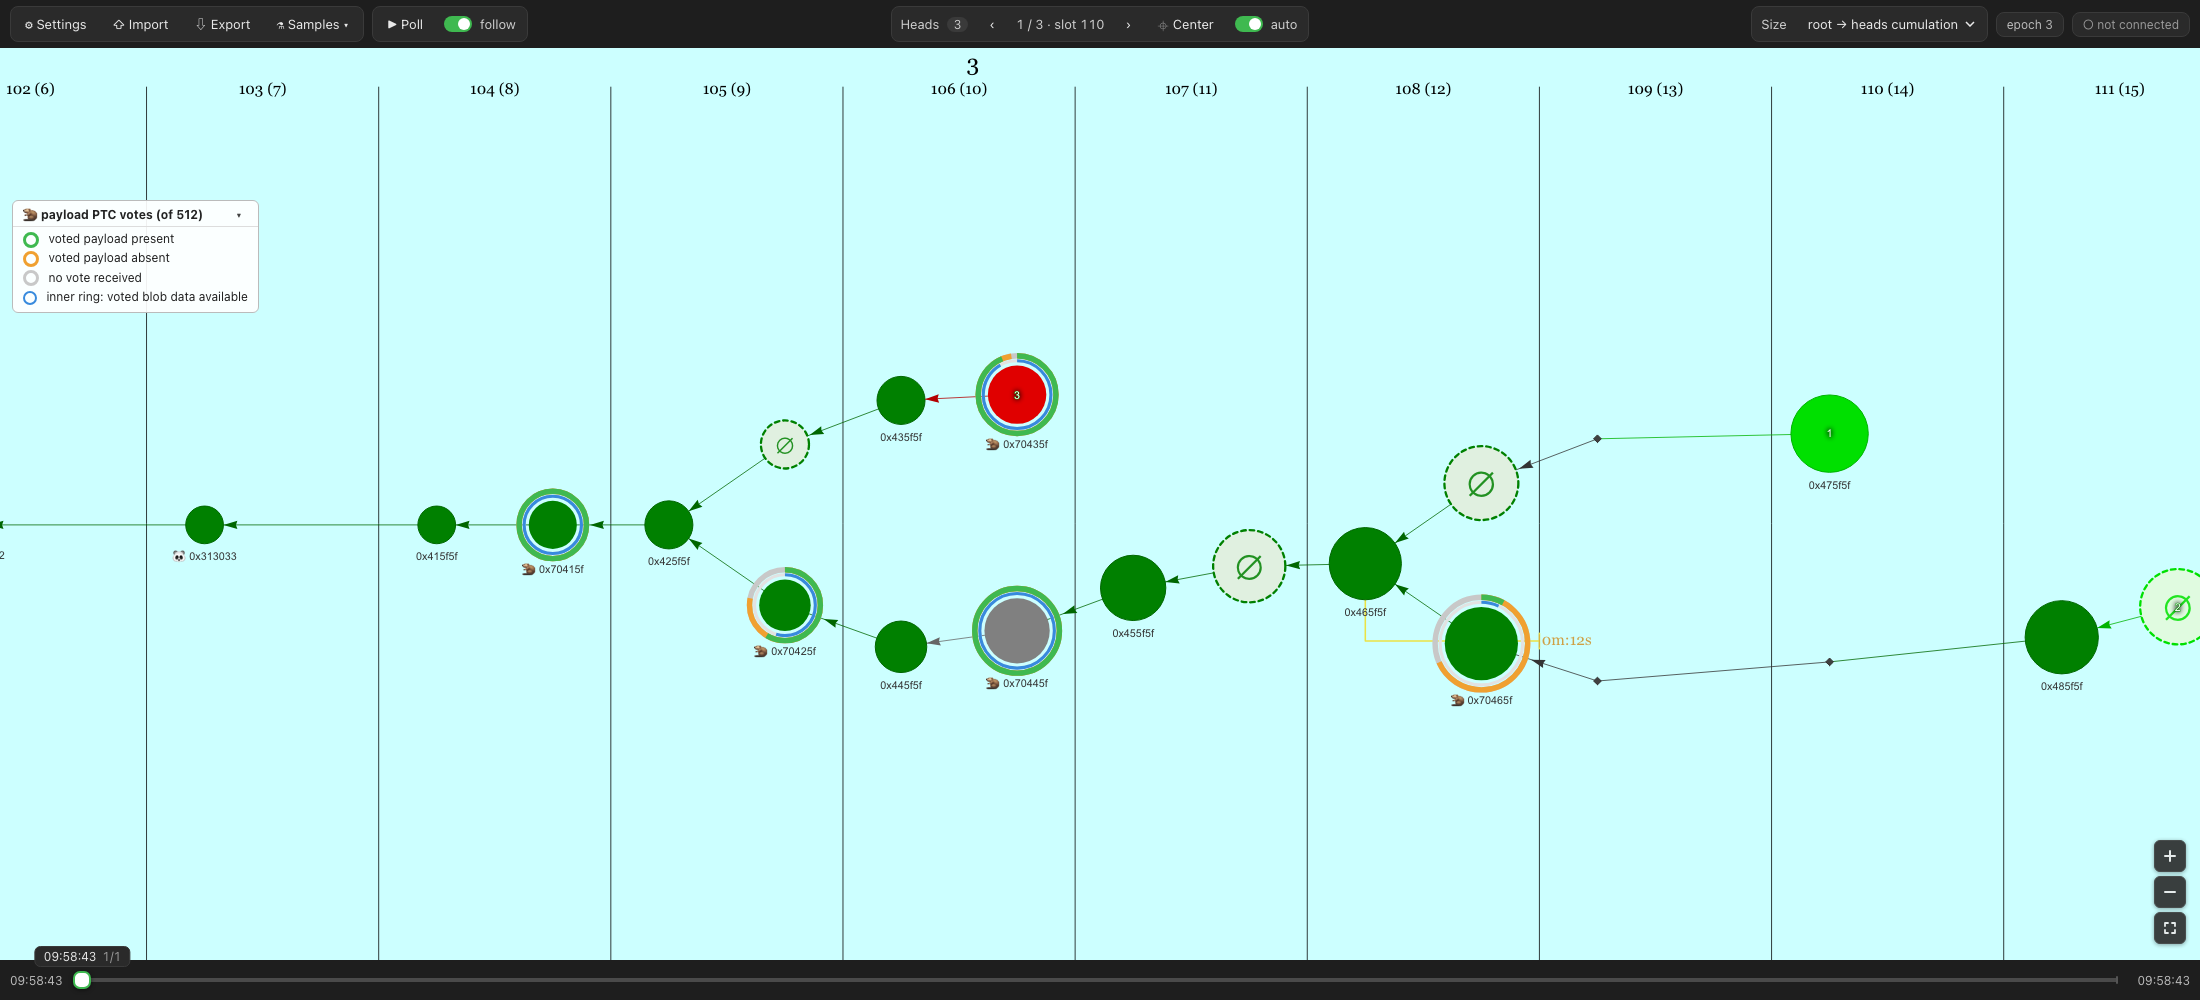
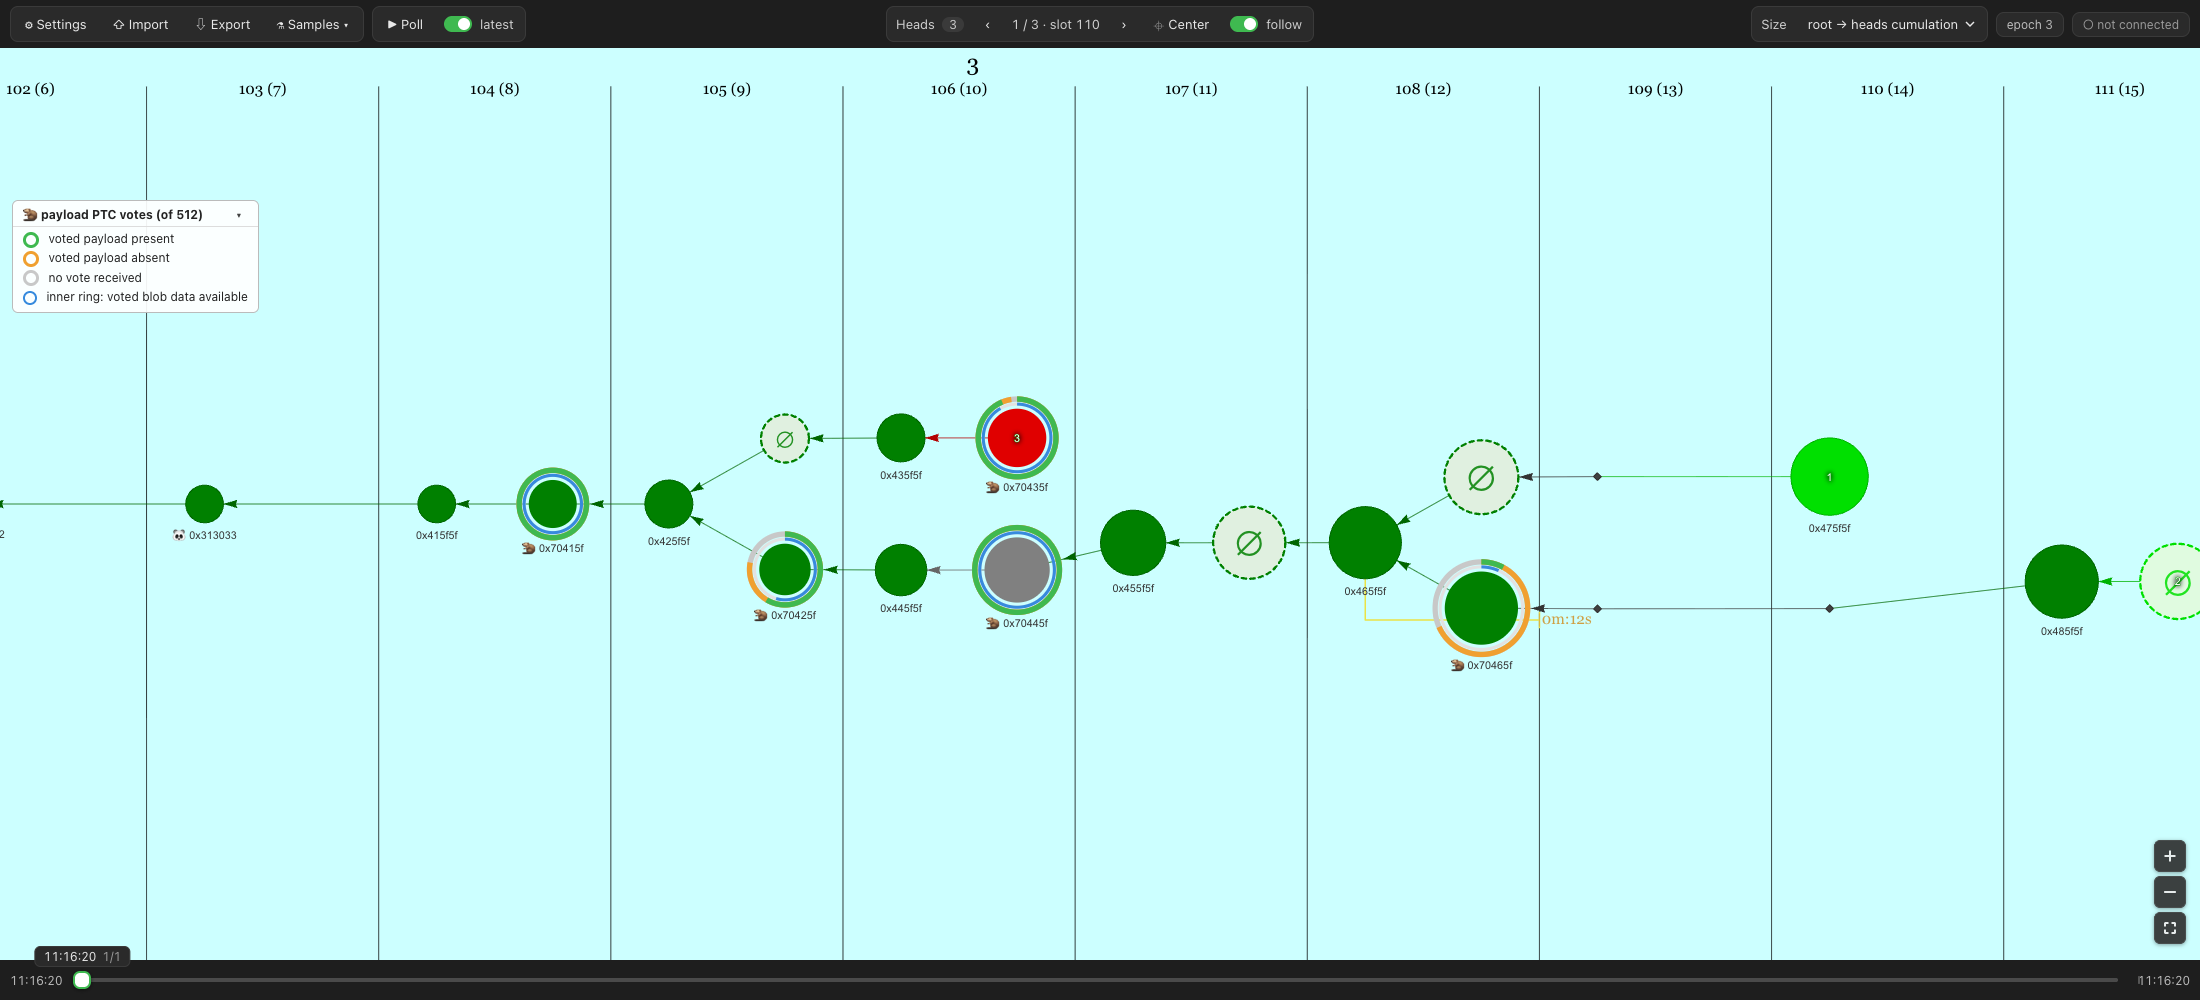
Follow wall-clock time instead of re-centering on each new head
The Heads "auto" switch (now "follow") kept the view sliding with time:
a dashed "now" line sits at 75% of the canvas width and the graph moves
left at slot speed, so new blocks appear as they arrive instead of the
view jumping to every head. The horizontal correction runs in vis's
initRedraw handler so every frame vis draws is aligned, and a
requestAnimationFrame loop asks for frames while "now" moves. Dragging,
Center and the head arrows switch follow off; zooming keeps it. Data
that is not live (samples, imports, a node more than an epoch behind)
falls back to the previous one-shot head centering.

Slot-axis math lives in timeAxis.ts with tests. The Poll group's
"follow" switch is renamed "latest". README updated with a follow-mode
screenshot from a live node and a re-captured main screenshot.

diff --git a/src/App.tsx b/src/App.tsx
@@ -19,6 +19,7 @@ import { fetchNodeParams, normalizeBaseUrl, diagnoseFetchFailure } from './beaco
 import { fetchForkChoice, forkChoiceNodeKey, resolveParentKey, isV2Node, ptcVoteFractions, ForkChoiceApiVersion, PayloadStatus } from './forkChoiceApi'
 import { makePtcNodeRenderer, makeEmptyNodeRenderer } from './ptcNode'
 import PtcLegend from './PtcLegend'
+import { currentSlot, slotToX, isTimeTrackable, SlotAxis } from './timeAxis'
 import ErrorPanel, { ActiveErrors } from './ErrorPanel'
 
 const SLOT_WIDTH: number = 150
@@ -139,6 +140,9 @@ const DEFAULT_DRAW_MISSING_SLOT_NODES: boolean = true
 const DEFAULT_HIDE_EMPTY_NODES: boolean = true
 // childless EMPTY nodes below this share (%) of their block's weight are hidden
 const DEFAULT_HIDE_EMPTY_THRESHOLD: number = 1
+// follow mode: where the "now" line is kept, as a fraction of the canvas width from the left
+const FOLLOW_NOW_POSITION: number = 0.75
+const NOW_LINE_COLOR: string = '#e0473a'
 const DEFAULT_PTC_SIZE: number = 512 // mainnet Payload Timeliness Committee size
 const DEFAULT_PHYSICS: boolean = true
 
@@ -607,7 +611,13 @@ function App() {
   const [poll, setPoll] = useState<boolean>(pollActiveAtStartup)
   const [pollTimer, setPollTimer] = useState<any>(0)
   const [followPoll, setFollowPoll] = React.useState(true)
-  const [followCanonicalHead, setFollowCanonicalHead] = React.useState(true)
+  // follow wall-clock time: the view slides so that "now" stays near the right edge
+  const [followTime, setFollowTime] = React.useState(true)
+  // set when following is switched on, so the first move animates and takes the head's y
+  const followSnap = useRef<boolean>(true)
+  // what the per-frame follow correction needs; a ref so the vis event handlers stay stable
+  const followRef = useRef<{ active: boolean; animatingUntil: number; axis: () => SlotAxis | undefined; genesisTime: number; secondsPerSlot: number }>(
+    { active: false, animatingUntil: 0, axis: () => undefined, genesisTime: 0, secondsPerSlot: 1 })
 
   const [nodeSizeMode, setNodeSizeMode] = useState<NodeSizeMode>(DEFAULT_NODE_SIZE_MODE)
 
@@ -820,12 +830,80 @@ function App() {
   }, [getProtoArray, pollTick])
 
 
+  // horizontal slot axis of the current layout: slot columns sit at a fixed pitch right of the leftmost root
+  const slotAxis = useCallback((): SlotAxis | undefined => {
+    if (!network || !roots) return undefined
+    let leftMost: any
+    Object.keys(roots).forEach(rootId => {
+      const node = roots[rootId]
+      if (!leftMost || node.slot < leftMost.slot) leftMost = node
+    })
+    if (!leftMost) return undefined
+    try {
+      const position = network.getPosition(leftMost.id)
+      if (!position || isNaN(position.x)) return undefined
+      return { leftMostSlot: leftMost.slot, leftMostX: position.x, blockOffset: payloadColumns ? slotWidth / 4 : 0, slotWidth }
+    } catch (e) {
+      return undefined // node not in the network yet
+    }
+  }, [network, roots, payloadColumns, slotWidth])
+
+  const newestHeadSlot: number | undefined = heads.length > 0 ? Math.max(...heads.map(head => head.slot)) : undefined
+  const timeTrackable = isTimeTrackable(currentSlot(genesisTime, secondsPerSlot, Date.now()), newestHeadSlot, slotsPerEpoch)
+
   useEffect(() => {
-    if (followCanonicalHead) {
+    if (followTime) followSnap.current = true
+  }, [followTime])
+
+  followRef.current = { ...followRef.current, active: followTime && timeTrackable, axis: slotAxis, genesisTime, secondsPerSlot }
+
+  // follow: keep "now" near the right edge, sliding the graph left at slot speed. The horizontal
+  // correction itself happens in vis's initRedraw handler (see events), so every frame vis draws,
+  // for whatever reason (layout, physics, zoom), is already aligned; this loop only asks for frames
+  // while "now" has moved by a visible amount. With data that is not live (samples, stale nodes)
+  // fall back to centering on the canonical head once per update.
+  useEffect(() => {
+    if (!network || heads.length === 0) return
+    if (!followTime) {
+      if (!timeTrackable) return
+      const timer = setInterval(() => network.redraw(), 1000) // keeps the "now" line moving
+      return () => clearInterval(timer)
+    }
+    if (!timeTrackable) {
       const timer = setTimeout(handleCanonicalHead, 200)
       return () => clearTimeout(timer)
     }
-  }, [followCanonicalHead, handleCanonicalHead])
+    if (followSnap.current) {
+      followSnap.current = false
+      const axis = slotAxis()
+      const canvasWidth: number = network?.canvas?.frame?.canvas?.clientWidth ?? 0
+      if (axis && canvasWidth > 0) {
+        const x = slotToX(axis, currentSlot(genesisTime, secondsPerSlot, Date.now()))
+        const y = network.getPosition(heads[0].id).y
+        const offset = { x: canvasWidth * FOLLOW_NOW_POSITION - canvasWidth / 2, y: 0 }
+        if (INITIAL_ZOOM !== undefined) {
+          network.moveTo({ position: { x, y }, offset, scale: INITIAL_ZOOM, animation: false })
+        } else {
+          followRef.current.animatingUntil = Date.now() + 350
+          network.moveTo({ position: { x, y }, offset, animation: { duration: 300, easingFunction: 'easeInOutQuad' } })
+        }
+      }
+    }
+    let frame = 0
+    let lastX = NaN
+    const loop = () => {
+      frame = requestAnimationFrame(loop)
+      if (Date.now() < followRef.current.animatingUntil) return
+      const axis = slotAxis()
+      if (!axis) return
+      const x = slotToX(axis, currentSlot(genesisTime, secondsPerSlot, Date.now()))
+      if (Math.abs(x - lastX) * network.getScale() < 0.2) return // sub-pixel: not worth a frame
+      lastX = x
+      network.redraw()
+    }
+    frame = requestAnimationFrame(loop)
+    return () => cancelAnimationFrame(frame)
+  }, [followTime, timeTrackable, network, heads, slotAxis, genesisTime, secondsPerSlot, handleCanonicalHead])
 
   const getNetwork = useCallback((a) => {
     setNetwort(a)
@@ -1027,6 +1105,7 @@ function App() {
 
     const previousHead = (headIdx + 1) % heads.length
 
+    setFollowTime(false)
     network.fit({
       nodes: [heads[previousHead].id],
       animation: true
@@ -1039,6 +1118,7 @@ function App() {
 
     const nextHead = (Math.max(0, headIdx - 1)) % heads.length
 
+    setFollowTime(false)
     network.fit({
       nodes: [heads[nextHead].id],
       animation: true
@@ -1271,6 +1351,20 @@ function App() {
 
         params.event = "[original event]"
       },
+      dragStart: function () {
+        setFollowTime(false)
+      },
+      // runs before vis draws a frame, before the view transform is applied: pin "now" to a fixed
+      // DOM x by setting the horizontal translation directly (dom = canvas * scale + translation)
+      initRedraw: function () {
+        const follow = followRef.current
+        if (!follow.active || !network || Date.now() < follow.animatingUntil) return
+        const axis = follow.axis()
+        const canvasWidth: number = network?.canvas?.frame?.canvas?.clientWidth ?? 0
+        if (!axis || canvasWidth === 0) return
+        const x = slotToX(axis, currentSlot(follow.genesisTime, follow.secondsPerSlot, Date.now()))
+        network.body.view.translation.x = canvasWidth * FOLLOW_NOW_POSITION - x * network.getScale()
+      },
       doubleClick: function (params) {
         if (params.nodes.length === 0) return
         let node: any = networkNodes.get(params.nodes[0])
@@ -1313,7 +1407,9 @@ function App() {
         })
 
         const minEpoch: number = Math.floor(minSlot / slotsPerEpoch)
-        const maxEpoch: number = Math.floor(maxSlot / slotsPerEpoch)
+        const nowSlot = currentSlot(genesisTime, secondsPerSlot, Date.now())
+        const showNow = isTimeTrackable(nowSlot, maxSlot, slotsPerEpoch)
+        const maxEpoch: number = Math.floor(Math.max(maxSlot, showNow ? nowSlot : maxSlot) / slotsPerEpoch)
         const leftMostNodeSlot: number = minSlot
         minSlot = minEpoch * slotsPerEpoch
         maxSlot = maxEpoch * slotsPerEpoch + slotsPerEpoch - 1
@@ -1360,6 +1456,24 @@ function App() {
           ctx.stroke()
           ctx.fillStyle = "#000000"
           ctx.fillText(slotLabel, slotCenter - ctx.measureText(slotLabel).width / 2, absoluteTop + 60)
+        }
+
+        // "now" line: where wall-clock time falls on the slot axis
+        if (showNow) {
+          const nowX = slotToX({ leftMostSlot: leftMostNodeSlot, leftMostX: leftMostPosition.x, blockOffset, slotWidth }, nowSlot)
+          ctx.save()
+          ctx.strokeStyle = NOW_LINE_COLOR
+          ctx.lineWidth = 2
+          ctx.setLineDash([8, 6])
+          ctx.beginPath()
+          ctx.moveTo(nowX, absoluteTop + 50)
+          ctx.lineTo(nowX, absoluteBottom)
+          ctx.stroke()
+          ctx.restore()
+          ctx.fillStyle = NOW_LINE_COLOR
+          ctx.font = "14px Georgia"
+          ctx.fillText(`now ${moment().format('HH:mm:ss')}`, nowX + 6, absoluteTop + 82)
+          ctx.font = "20px Georgia"
         }
 
         // terminal node
@@ -1609,7 +1723,7 @@ function App() {
                   <label className="switch tb-switch" title="jump to the latest snapshot as new data arrives">
                     <input type="checkbox" checked={followPoll} onChange={(event) => setFollowPoll(event.target.checked)} />
                     <span className="switch-track" />
-                    follow
+                    latest
                   </label>
                 </div>
               </div>
@@ -1621,11 +1735,11 @@ function App() {
                     {heads.length > 0 ? `${headIdx + 1} / ${heads.length} · slot ${heads[headIdx]?.slot ?? heads[0].slot}` : '0 / 0'}
                   </span>
                   <button className="tb-btn" onClick={handlePreviousHead} title="next head (lighter)">›</button>
-                  <button className="tb-btn" onClick={handleCanonicalHead} title="center the view on the canonical head">⌖ Center</button>
-                  <label className="switch tb-switch" title="re-center the view on the canonical head after each update">
-                    <input type="checkbox" checked={followCanonicalHead} onChange={(event) => setFollowCanonicalHead(event.target.checked)} />
+                  <button className="tb-btn" onClick={() => { setFollowTime(false); handleCanonicalHead() }} title="center the view on the canonical head (stops following)">⌖ Center</button>
+                  <label className="switch tb-switch" title="follow wall-clock time: the view slides so the current slot stays just right of centre; dragging the view stops it. Falls back to re-centering on the head when the data is not live">
+                    <input type="checkbox" checked={followTime} onChange={(event) => setFollowTime(event.target.checked)} />
                     <span className="switch-track" />
-                    auto
+                    follow
                   </label>
                 </div>
               </div>

diff --git a/src/timeAxis.test.ts b/src/timeAxis.test.ts
@@ -1,0 +1,47 @@
+import { currentSlot, slotToX, isTimeTrackable, SlotAxis } from './timeAxis'
+
+describe('currentSlot', () => {
+  it('returns a fractional slot from wall-clock time', () => {
+    // genesis 1000s, 12s slots, now = 1000 + 12 * 2.5
+    expect(currentSlot(1000, 12, (1000 + 30) * 1000)).toBeCloseTo(2.5)
+  })
+
+  it('is negative before genesis', () => {
+    expect(currentSlot(1000, 12, 988 * 1000)).toBe(-1)
+  })
+})
+
+describe('slotToX', () => {
+  // the leftmost node sits at slot 10, x = 500; slots are 300 wide and, with payload columns,
+  // block nodes are shifted left by a quarter slot inside their column
+  const axis: SlotAxis = { leftMostSlot: 10, leftMostX: 500, blockOffset: 75, slotWidth: 300 }
+
+  it('maps the left edge of the leftmost slot column', () => {
+    // column centre = 500 + 75 = 575, left edge = 575 - 150
+    expect(slotToX(axis, 10)).toBe(425)
+  })
+
+  it('maps fractional slots linearly', () => {
+    expect(slotToX(axis, 12.5)).toBe(425 + 2.5 * 300)
+  })
+
+  it('works without payload columns', () => {
+    expect(slotToX({ leftMostSlot: 0, leftMostX: 0, blockOffset: 0, slotWidth: 150 }, 1)).toBe(75)
+  })
+})
+
+describe('isTimeTrackable', () => {
+  it('accepts a head within one epoch of now', () => {
+    expect(isTimeTrackable(1000.4, 1000, 32)).toBe(true)
+    expect(isTimeTrackable(1031, 1000, 32)).toBe(true)
+  })
+
+  it('rejects a head far in the past or future (samples, stale nodes)', () => {
+    expect(isTimeTrackable(15_000_000, 111, 32)).toBe(false)
+    expect(isTimeTrackable(1000, 1040, 32)).toBe(false)
+  })
+
+  it('rejects missing heads', () => {
+    expect(isTimeTrackable(1000, undefined, 32)).toBe(false)
+  })
+})

diff --git a/src/timeAxis.ts b/src/timeAxis.ts
@@ -1,0 +1,27 @@
+// Maps wall-clock time onto the graph's horizontal slot axis. The layout places slot columns
+// at a fixed pitch to the right of the leftmost node, so any (fractional) slot has an x.
+
+export type SlotAxis = {
+  leftMostSlot: number   // slot of the leftmost (root) node
+  leftMostX: number      // its x position on the canvas
+  blockOffset: number    // block nodes sit left of the column centre when payload columns are shown
+  slotWidth: number
+}
+
+// Fractional slot for a wall-clock instant, e.g. 2.5 = halfway through slot 2.
+export function currentSlot(genesisTime: number, secondsPerSlot: number, nowMs: number): number {
+  return (nowMs / 1000 - genesisTime) / secondsPerSlot
+}
+
+// x of a (fractional) slot measured from the left edge of its column.
+export function slotToX(axis: SlotAxis, slot: number): number {
+  const columnCentre = axis.leftMostX + axis.blockOffset
+  return columnCentre - axis.slotWidth / 2 + (slot - axis.leftMostSlot) * axis.slotWidth
+}
+
+// Following wall-clock time only makes sense when the data is live: the newest head must be
+// within an epoch of now. Sample dumps and stale nodes fall back to centering on the head.
+export function isTimeTrackable(nowSlot: number, headSlot: number | undefined, slotsPerEpoch: number): boolean {
+  if (headSlot === undefined) return false
+  return Math.abs(nowSlot - headSlot) <= slotsPerEpoch
+}

diff --git a/README.md b/README.md
@@ -34,6 +34,16 @@ before you close the dialog. Press **Poll** in the toolbar to start fetching; th
 top right shows whether the node answers and which fork choice API version is in use (hover it
 for endpoint details).
 
+With **follow** (Heads group, on by default) the view scrolls with wall-clock time: a dashed red
+"now" line marks the current instant and stays just right of centre while the graph slides left at
+slot speed, so new blocks appear as they arrive instead of the view jumping to each new head.
+Dragging the view, **Center** or stepping through heads switches follow off; zooming keeps it.
+When the data is not live (samples, imported dumps, a node more than an epoch behind) follow
+falls back to re-centering on the canonical head after each update. **latest** (Poll group)
+keeps the footer timeline on the newest snapshot.
+
+![Follow mode against a live node: the head trails the "now" line](docs/follow.png)
+
 Fork choice is read from `/eth/v2/debug/fork_choice` when the node supports it
 ([beacon-APIs#615](https://github.com/ethereum/beacon-APIs/pull/615)), falling back to
 `/eth/v1/debug/fork_choice` otherwise. Both the plain and the `data`-wrapped response shapes are
@@ -95,7 +105,7 @@ single fork choice response in the selected source type's format or a previously
 
 URL parameters are applied on start, useful for bookmarks and screenshots:
 `?sample=gloas` or `?sample=teku` loads a bundled dump, `?network=mainnet|goerli|sepolia|custom|auto`
-selects the network (a fixed network skips node detection), `?zoom=0.7` fixes the zoom used whenever the view centers on the head,
+selects the network (a fixed network skips node detection), `?zoom=0.7` fixes the zoom used when the view first centers on the head or starts following,
 `?settings=1` opens the settings dialog.
 The screenshot above is `http://localhost:3000/?sample=gloas&network=mainnet&zoom=0.7` captured
 with headless Chrome:
@@ -106,7 +116,9 @@ with headless Chrome:
   "http://localhost:3000/?sample=gloas&network=mainnet&zoom=0.7"
 ```
 
-The settings screenshot is `?sample=gloas&network=mainnet&settings=1` at 1100×900.
+The settings screenshot is `?sample=gloas&network=mainnet&settings=1` at 1100×900. The follow-mode
+screenshot cannot use a sample (it needs live data): it is `?zoom=0.8` at 1600×700 against a live
+node through the proxy, captured a few seconds after pressing **Poll**.
 
 ## Deployment
 
